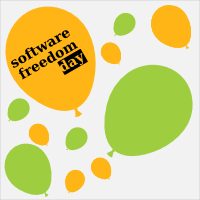
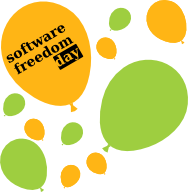
Better balloons image, code of conduct page and templating, and better indentation

diff --git a/index.html b/index.html
@@ -1,92 +1,47 @@
-<!DOCTYPE html>
-<html lang="en">
-<head>
-  <meta http-equiv="Content-Type" content="text/html; charset=utf-8" />
-  <title>Home - Software Freedom Day | FreeGeek Chicago</title>
+---
+layout: base
 
-  <link rel="stylesheet" type="text/css" href="static/2014/css/bootstrap.min.css">
-  <link rel="stylesheet" type="text/css" href="static/2014/css/style.css">
+---
 
-  <!-- HTML5 Shim and Respond.js IE8 support of HTML5 elements and media queries -->
-  <!-- WARNING: Respond.js doesn't work if you view the page via file:// -->
-    <!--[if lt IE 9]>
-      <script src="https://oss.maxcdn.com/html5shiv/3.7.2/html5shiv.min.js"></script>
-      <script src="https://oss.maxcdn.com/respond/1.4.2/respond.min.js"></script>
-      <![endif]-->
-</head>
 
-<body>
+<div class="content">
 
-<div class="container">
+    <div class="img-slider">
 
-  <nav class="navbar navbar-default navbar-fixed-top" role="navigation">
-    <div class="container-fluid">
-      <!-- Brand and toggle get grouped for better mobile display -->
-      <div class="navbar-header">
-        <button type="button" class="navbar-toggle" data-toggle="collapse" data-target="#bs-example-navbar-collapse-1">
-          <span class="sr-only">Toggle navigation</span>
-          <span class="icon-bar"></span>
-          <span class="icon-bar"></span>
-          <span class="icon-bar"></span>
-        </button>
-      </div>
+    </div>
 
-      <!-- Collect the nav links, forms, and other content for toggling -->
-      <div class="collapse navbar-collapse" id="bs-example-navbar-collapse-1">
-        <ul class="nav navbar-nav">
+    <h1>You're Invited!</h1>
 
-          <li class="dropdown">
-            <a href="#" class="dropdown-toggle" data-toggle="dropdown">SFD 2014<span class="caret"></span></a>
-            <ul class="dropdown-menu" role="menu">
-              <li><a href="#">SFD 2014</a></li>
-              <li><a href="#">SFD 2013</a></li>
-            </ul>
-          </li>
+    <p>
+        Software Freedom Day (SFD) is a worldwide celebration of Free and Open Source Software (FOSS).
+        Our goal in this celebration is to educate the worldwide public about the
+        benefits of using high quality FOSS in education, in government, at
+        home, and in business -- in short, everywhere!
+    </p>
 
-        </ul>
+    <p>
+        The admission to the event is FREE and open to all enthusiastic people, though
+        we suggest a "Pay-What-You-Can" donation to support FreeGeek Chicago and it's
+        educational and outreach programming. If you write open source software, use
+        free software, or are curious and want to learn about software freedom and
+        the FOSS community, come join us for Software Freedom Day!
+    </p>
 
-        <ul class="nav navbar-nav navbar-right">
-          <li><button class="btn btn-sfd"><a href="#">Schedule</a></button></li>
-          <li><button class="btn btn-sfd"><a href="#">Schedule</a></button></li>
-          <li><button class="btn btn-sfd"><a href="#">Schedule</a></button></li>
-          <li><button class="btn btn-sfd"><a href="#">Schedule</a></button></li>
-          <li><button class="btn btn-sfd btn-donate"><a href="#">Donate</a></button></li>
-        </ul>
+    <img src="static/2014/images/balloons.png" />
 
-      </div><!-- /.navbar-collapse -->
-    </div><!-- /.container-fluid -->
-  </nav>
+    <h1>About Software Freedom Day</h1>
 
-  <div class="content">
+    <h2>SFD Vision</h2>
 
-      <div class="img-slider">
-
-      </div>
-
-      <h1>You're Invited!</h1>
-
-      <p>Software Freedom Day (SFD) is a worldwide celebration of Free and Open Source Software (FOSS).
-         Our goal in this celebration is to educate the worldwide public about the
-         benefits of using high quality FOSS in education, in government, at
-         home, and in business -- in short, everywhere!</p>
-
-      <p>The admission to the event is FREE and open to all enthusiastic people, though
-          we suggest a "Pay-What-You-Can" donation to support FreeGeek Chicago and it's
-          educational and outreach programming. If you write open source software, use
-          free software, or are curious and want to learn about software freedom and
-          the FOSS community, come join us for Software Freedom Day!</p>
-
-      <img src="static/2014/images/balloons.png" />
-
-      <h1>About Software Freedom Day</h1>
-
-      <h2>SFD Vision</h2>
-      <p>Our vision is to empower all people to freely connect, create and share in
-         a digital world that is participatory, transparent, and sustainable.</p>
+    <p>
+        Our vision is to empower all people to freely connect, create and share in
+        a digital world that is participatory, transparent, and sustainable.
+    </p>
 
     <h2>SFD Objectives</h2>
-      <ul>
-          <li>To celebrate software freedom and the people behind it</li>
+
+    <ul>
+        <li>To celebrate software freedom and the people behind it</li>
         <li>To foster a general understanding of software freedom, and encourage adoption of free software and open standards</li>
         <li>To create more equal access to opportunities through the use of participatory technologies</li>
         <li>To promote constructive dialogue on responsibilities and rights in the information society</li>
@@ -95,16 +50,4 @@
 
     <h1>Register</h1>
 
-
-  </div>
-
 </div>
-
-
-<!-- JavaScript includes -->
-
-<script src="static/2014/js/jquery-2.0.3.js" type="text/javascript"></script>
-<script src="static/2014/js/bootstrap.min.js" type="text/javascript"></script>
-
-</body>
-</html>

diff --git a/_layouts/base.html b/_layouts/base.html
@@ -1,0 +1,69 @@
+<!doctype html>
+<html lang="en">
+    <head>
+        <meta http-equiv="Content-Type" content="text/html; charset=utf-8" />
+        <title>Home - Software Freedom Day | FreeGeek Chicago</title>
+
+        <link rel="stylesheet" type="text/css" href="static/2014/css/bootstrap.min.css">
+        <link rel="stylesheet" type="text/css" href="static/2014/css/style.css">
+
+        <!-- HTML5 Shim and Respond.js IE8 support of HTML5 elements and media queries -->
+        <!-- WARNING: Respond.js doesn't work if you view the page via file:// -->
+
+        <!--[if lt IE 9]>
+        <script src="https://oss.maxcdn.com/html5shiv/3.7.2/html5shiv.min.js"></script>
+        <script src="https://oss.maxcdn.com/respond/1.4.2/respond.min.js"></script>
+        <![endif]-->
+    </head>
+
+    <body>
+
+        <nav class="navbar navbar-default navbar-fixed-top" role="navigation">
+            <div class="container-fluid">
+
+                <!-- Brand and toggle get grouped for better mobile display -->
+                <div class="navbar-header">
+                    <button type="button" class="navbar-toggle" data-toggle="collapse" data-target="#bs-example-navbar-collapse-1">
+                        <span class="sr-only">Toggle navigation</span>
+                        <span class="icon-bar"></span>
+                        <span class="icon-bar"></span>
+                        <span class="icon-bar"></span>
+                    </button>
+                </div>
+
+                <!-- Collect the nav links, forms, and other content for toggling -->
+                <div class="collapse navbar-collapse" id="bs-example-navbar-collapse-1">
+                    <ul class="nav navbar-nav">
+                        <li class="dropdown">
+                            <a href="#" class="dropdown-toggle" data-toggle="dropdown">SFD 2014<span class="caret"></span></a>
+
+                            <ul class="dropdown-menu" role="menu">
+                                <li><a href="#">SFD 2014</a></li>
+                                <li><a href="#">SFD 2013</a></li>
+                            </ul>
+                        </li>
+                    </ul>
+
+                    <ul class="nav navbar-nav navbar-right">
+                        <li><a href="#"><button class="btn btn-sfd">Schedule</button></a></li>
+                        <li><a href="#"><button class="btn btn-sfd">Schedule</button></a></li>
+                        <li><a href="#"><button class="btn btn-sfd">Schedule</button></a></li>
+                        <li><a href="code-of-conduct"><button class="btn btn-sfd">Code of Conduct</button></a></li>
+                        <li><a href="#"><button class="btn btn-sfd btn-donate">Donate</button></a></li>
+                    </ul>
+
+                </div><!-- /.navbar-collapse -->
+            </div><!-- /.container-fluid -->
+        </nav>
+
+        <div class="container">
+            {{ content }}
+        </div>
+
+        <!-- JavaScript includes -->
+        <script src="static/2014/js/jquery-2.0.3.js" type="text/javascript"></script>
+        <script src="static/2014/js/bootstrap.min.js" type="text/javascript"></script>
+
+    </body>
+
+</html>

diff --git a/static/2014/css/style.css b/static/2014/css/style.css
@@ -1,18 +1,11 @@
 
-
 .content {
   margin-top: 500px;
 }
 
 /* common styles for all buttons in the website */
 .btn-sfd {
-  margin: 5px;
   background-color: rgb(158, 206, 64);
-
-}
-
-.btn-sfd a {
-  color: #ffffff;
 }
 
 /* styles to make the "Donate" btn orange */
@@ -20,5 +13,5 @@
   background-color: rgb(255, 181, 21);
 
   /* this is so the floating left won't take it off canvas */
-  margin-right: 20px;
+  margin-right: 10px;
 }
